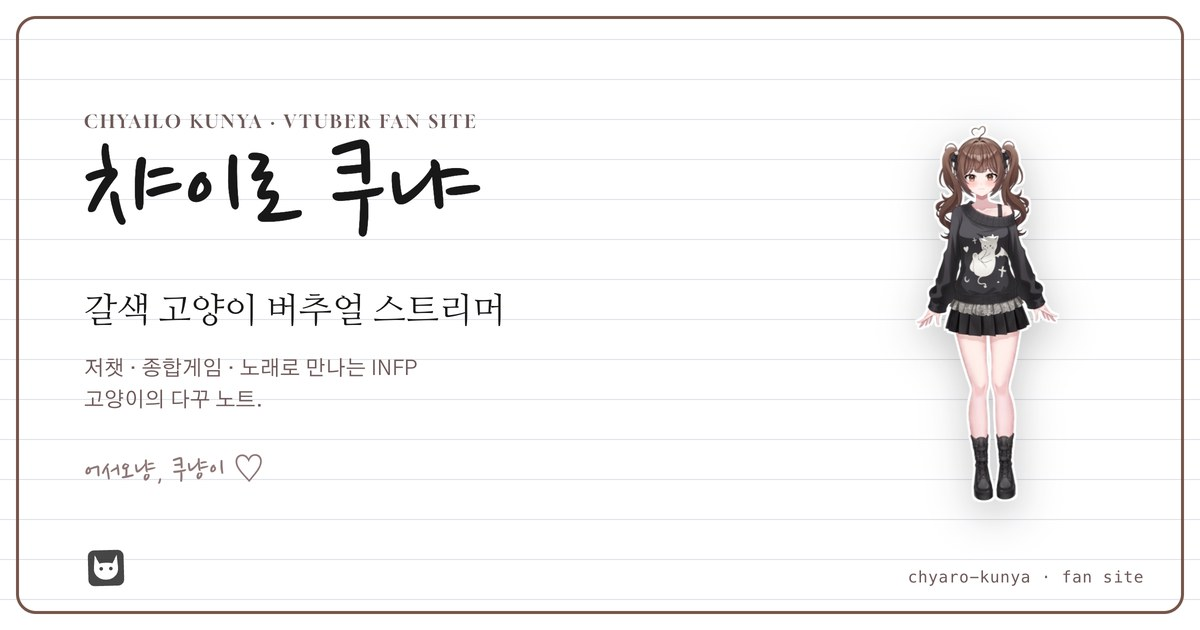
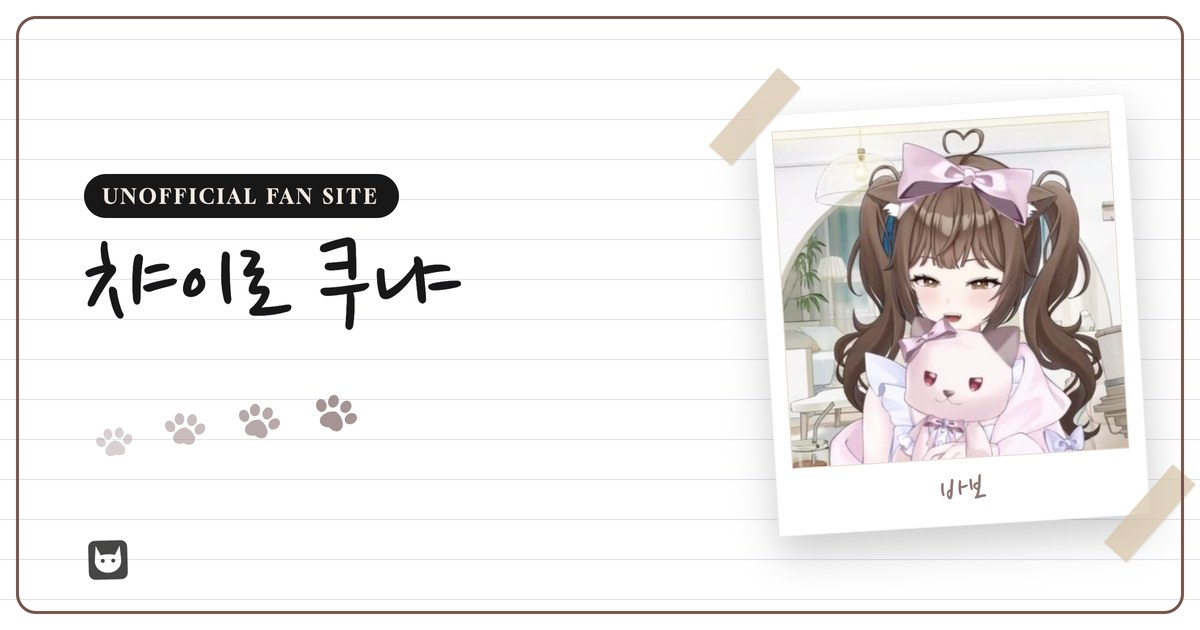
OG 커버 이미지를 폴라로이드 렌더본으로 교체 — 지금까지 공유 카드엔 컷아웃이 나가고 있었다
og-cover.html 은 35ee01e 에서 이미 폴라로이드로 바뀌었지만 assets/og-cover.jpg 는
그 전 렌더본(34728fd)이라, 링크를 공유하면 전신 컷아웃 + 텍스트 다섯 줄짜리 옛 커버가
그대로 나갔다. HTML 만 고치고 이미지를 안 바꾸면 아무것도 안 바뀐다.

크롭 검증: 브라우저 캡처는 DPR 배율이 곱해지고 뷰포트 여백이 딸려온다(2940×1672 로
왔고 카드는 왼쪽 위 2400×1260 뿐이다). (0,0)-(2400,1260) 을 잘라낸 뒤 그 안에서 갈색
액자 테두리가 사방 32px(= inset 16 × DPR 2)로 대칭인지로 크롭이 맞는지 확인했다.
절차는 og-cover.html 헤더 주석에 남겼다 — 이 저장소엔 HTML→이미지 경로가 없어서
다음에도 브라우저 캡처가 유일한 수단이고, 그때 같은 걸 다시 알아내게 할 이유가 없다.

og:image:alt 세 곳의 '캐릭터 컷아웃' 은 방금 교체한 이미지를 설명하던 문구라 거짓이
됐다. 이미지와 같은 커밋에서 바꾼다 — 따로 두면 둘 중 하나가 반드시 어긋난다.

.gitignore 주석은 차단하지 않는 근거로 kunya-full-720.png 를 박아뒀는데 새 렌더본은
snap-2.jpg 를 쓴다. 파일명을 갱신하는 대신 og-cover.html 을 따라가라는 규칙으로 바꿨다.
커버를 재설계할 때마다 조용히 틀어지는 종류의 주석이었다.

diff --git a/og-cover.html b/og-cover.html
@@ -3,8 +3,16 @@
 <head>
 <meta charset="utf-8" />
 <title>OG 커버 — 챠이로 쿠냐</title>
-<!-- Render target only: not linked from the site. Export at 1200×630 to
-     assets/og-cover.jpg to replace the current sips-composed cover.
+<!-- Render target only: not linked from the site. 이 페이지를 캡처한 것이
+     assets/og-cover.jpg 이고, 세 페이지의 소셜 카드 메타가 그 파일을 가리킨다.
+
+     교체 절차: 이 저장소엔 HTML→이미지 경로가 없어서 브라우저 캡처가 유일한
+     수단이다. 캡처엔 DPR 배율이 곱해지고 뷰포트 여백이 딸려오므로 그대로 쓰면
+     카드가 한쪽으로 치우친다. 잘라낼 상자는 원점 (0,0) 에서 1200×630 × DPR —
+     DPR 2 면 (0,0)-(2400,1260) 이다. 맞게 잘랐는지는 아래 프레임으로 검증한다:
+     inset 16px 이므로 잘라낸 이미지 안에서 갈색 테두리가 사방 16×DPR px 로
+     대칭이어야 한다(DPR 2 면 32). 카드 밖 body 는 줄 간격이 달라서(32px 대 40px)
+     눈으로도 구분된다. inset 이나 캔버스 크기를 바꾸면 이 값도 같이 바뀐다.
 
      테마를 라이트로 못박는 이유: 이 파일엔 테마 스크립트가 없어서 속성을 비워
      둬도 라이트로 떨어지지만, 그건 site.css 가 다크를 속성 선택자 하나로만 걸고

diff --git a/games.html b/games.html
@@ -20,7 +20,7 @@
 <meta property="og:image" content="https://chnu-kim.github.io/chyaro-kunya/assets/og-cover.jpg" />
 <meta property="og:image:width" content="1200" />
 <meta property="og:image:height" content="630" />
-<meta property="og:image:alt" content="챠이로 쿠냐 팬 사이트 커버 — 줄노트 위 손글씨 이름과 캐릭터 컷아웃" />
+<meta property="og:image:alt" content="챠이로 쿠냐 팬 사이트 커버 — 줄노트 위 손글씨 이름과 테이프로 붙인 폴라로이드 사진" />
 <meta property="og:locale" content="ko_KR" />
 <meta name="twitter:card" content="summary_large_image" />
 

diff --git a/index.html b/index.html
@@ -20,7 +20,7 @@
 <meta property="og:image" content="https://chnu-kim.github.io/chyaro-kunya/assets/og-cover.jpg" />
 <meta property="og:image:width" content="1200" />
 <meta property="og:image:height" content="630" />
-<meta property="og:image:alt" content="챠이로 쿠냐 팬 사이트 커버 — 줄노트 위 손글씨 이름과 캐릭터 컷아웃" />
+<meta property="og:image:alt" content="챠이로 쿠냐 팬 사이트 커버 — 줄노트 위 손글씨 이름과 테이프로 붙인 폴라로이드 사진" />
 <meta property="og:locale" content="ko_KR" />
 <meta name="twitter:card" content="summary_large_image" />
 

diff --git a/landing.html b/landing.html
@@ -20,7 +20,7 @@
 <meta property="og:image" content="https://chnu-kim.github.io/chyaro-kunya/assets/og-cover.jpg" />
 <meta property="og:image:width" content="1200" />
 <meta property="og:image:height" content="630" />
-<meta property="og:image:alt" content="챠이로 쿠냐 팬 사이트 커버 — 줄노트 위 손글씨 이름과 캐릭터 컷아웃" />
+<meta property="og:image:alt" content="챠이로 쿠냐 팬 사이트 커버 — 줄노트 위 손글씨 이름과 테이프로 붙인 폴라로이드 사진" />
 <meta property="og:locale" content="ko_KR" />
 <meta name="twitter:card" content="summary_large_image" />
 